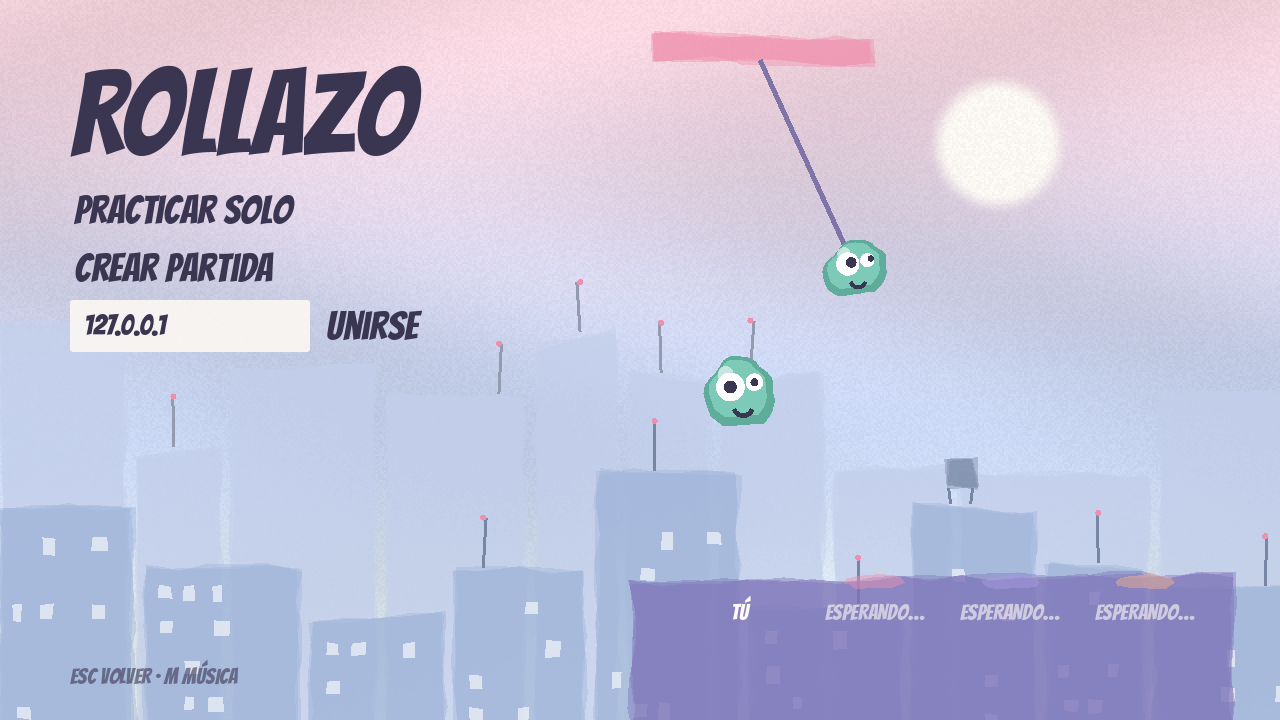
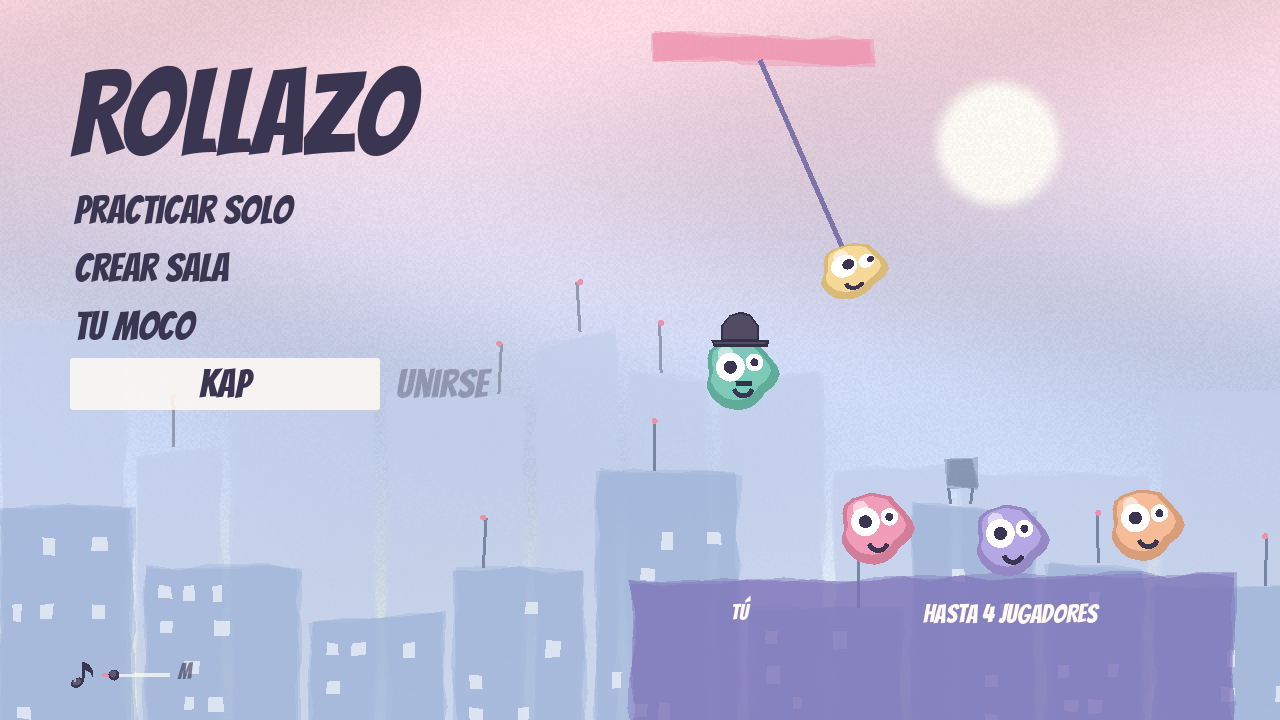
Guía online: salas con código en vez de Tailscale

diff --git a/docs/jugar-online.md b/docs/jugar-online.md
@@ -4,23 +4,19 @@ Rollazo es una carrera de hasta **4 mocos** que se columpian con papel higiénic
 tejados de una ciudad. Puedes cortar el papel de los demás, agarrarte a ellos y chocar.
 Cada ronda es un mapa nuevo y gana quien sume más puntos.
 
-Para jugar online, un PC hace de **anfitrión** (el que crea la partida) y los demás se
-**unen** a él. Como no estamos en la misma casa, usamos **Tailscale**: crea una red privada
-entre nuestros PCs por internet. Es gratis y no hace falta tocar el router.
+Para jugar online, uno **crea una sala** y le sale un **código de 4 letras**. Los demás
+escriben ese código y entran. No hace falta instalar nada más ni saber ninguna IP.
 
 ---
 
 ## 1. Preparación (solo la primera vez, cada uno)
 
-1. **Tailscale.** Descárgalo en https://tailscale.com/download, instálalo y entra con tu cuenta
-   de Google, Microsoft o GitHub.
-2. **Estar en la misma red.** El anfitrión entra en https://login.tailscale.com/admin/users,
-   pulsa **Invite users** y manda el enlace a cada amigo. Cada amigo lo abre y acepta.
-3. **El juego.** Copia `Rollazo.exe` en tu PC (te lo pasa el anfitrión por Drive, WeTransfer…).
-   No se instala: se abre con doble clic.
-   - Si Windows avisa de que es una app desconocida: **Más información → Ejecutar de todas formas**.
-4. **Firewall (solo el anfitrión).** La primera vez que pulse **Crear partida**, Windows
-   pregunta si permite el acceso: marca **Redes privadas** y pulsa **Permitir**.
+1. **Descarga el zip** de la última versión en https://github.com/olwpad/Rollazo/releases
+   (o te lo pasa un amigo).
+2. **Descomprímelo** en una carpeta. Dentro hay `Rollazo.exe` y un `.dll`: tienen que estar
+   **juntos** en la misma carpeta, si no el online no funciona.
+3. Ábrelo con doble clic. Si Windows avisa de que es una app desconocida:
+   **Más información → Ejecutar de todas formas**.
 
 ---
 
@@ -31,50 +27,34 @@ entre nuestros PCs por internet. Es gratis y no hace falta tocar el router.
 | Elemento | Para qué sirve |
 |---|---|
 | **Practicar solo** | Juegas tú solo en un mapa aleatorio, para aprender. **R** repite el mismo mapa. |
-| **Crear partida** | Te conviertes en el **anfitrión**: los demás se unen a ti. |
-| **Casilla de IP** (pone `127.0.0.1`) | Aquí escribe el amigo la IP del anfitrión. Haz clic en ella, borra lo que hay y pega la IP. |
-| **Unirse** | Te conecta a la IP que hay en la casilla. |
-| **Azotea de la derecha** | Los 4 huecos de la partida. Cuando alguien entra, su moco cae de un salto con su color. |
-| **Abajo** | Cuántos mocos hay (por ejemplo `2/4 MOCOS`) y los atajos de teclado. |
-
-> `127.0.0.1` significa "este mismo PC". Solo sirve para probar con dos ventanas en tu
-> ordenador. Para jugar con amigos hay que poner la IP de Tailscale del anfitrión.
+| **Crear sala** | Te conviertes en el **anfitrión** y te sale el código de la sala. |
+| **Tu moco** | Cambias tu ropa, tu color y tu nombre. |
+| **Casilla del código** | Aquí escribe el amigo las 4 letras de la sala. Recuerda el último código. |
+| **Unirse** | Se enciende al escribir las 4 letras. Te mete en esa sala. |
 
 ---
 
 ## 3. Si eres el anfitrión
 
-1. **Abre Tailscale** (icono junto al reloj de Windows, abajo a la derecha) y comprueba que
-   está conectado.
-2. **Copia tu IP.** En el menú de Tailscale, tu PC aparece con una IP que empieza por `100.`
-   (por ejemplo `100.101.7.42`). Haz clic en ella y se copia.
-3. **Pásala** por el grupo de WhatsApp o Discord.
-4. **Abre Rollazo y pulsa Crear partida.** Verás esto:
+1. Pulsa **Crear sala**. En un momento sale arriba el **código de la sala** (por ejemplo `MWUH`):
 
    ![Sala del anfitrión](img/2-anfitrion.png)
 
-   - Tu moco aparece en la azotea con **TÚ** debajo.
-   - Cada amigo que se une cae en un hueco libre (**JUGADOR 2**, **JUGADOR 3**…).
-   - Las opciones de practicar, crear y unirse desaparecen mientras la partida está abierta.
-5. **Cuando estéis todos, pulsa ¡EMPEZAR CARRERA!** Solo lo ve el anfitrión.
+2. Pulsa **COPIAR** y pásalo por el grupo de WhatsApp o Discord.
+3. Cada amigo que entra aparece en un cartel de la azotea.
+4. **Cuando estéis todos, pulsa ¡A CORRER!** Solo lo ve el anfitrión.
 
 > Cuando la carrera ya ha empezado no entra nadie más. Si alguien llega tarde, salid al menú
-> (**Esc**), crea otra partida y que se unan todos otra vez.
+> (**Esc**), crea otra sala y que entren todos con el código nuevo.
 
 ---
 
 ## 4. Si eres un amigo
 
-1. Comprueba que **Tailscale está conectado**: el icono no debe estar tachado.
-2. Abre Rollazo.
-3. **Haz clic en la casilla de IP**, borra `127.0.0.1` y **pega la IP del anfitrión**
-   (la que empieza por `100.`).
-4. Pulsa **Unirse**. Al conectar verás tu moco en la azotea con **TÚ** y el mensaje
-   *"Conectado. Esperando a que el anfitrión empiece…"*:
-
-   ![Sala de un amigo](img/3-amigo.png)
-
-5. Espera a que el anfitrión pulse **¡Empezar carrera!**
+1. Abre Rollazo.
+2. Escribe en la casilla las **4 letras** que te ha pasado el anfitrión.
+3. Pulsa **Unirse**. Al conectar aparece tu moco en la azotea.
+4. Espera a que el anfitrión pulse **¡A CORRER!**
 
 ---
 
@@ -132,14 +112,15 @@ entre nuestros PCs por internet. Es gratis y no hace falta tocar el router.
 
 | Qué pasa | Qué hacer |
 |---|---|
-| **"No se pudo conectar"** | Comprobad que los dos tenéis Tailscale encendido y que la IP es la `100.x` del anfitrión, no la de vuestro wifi. Podéis probar `ping 100.x.y.z` en una terminal. |
-| **"No se pudo conectar" con todo bien** | Puede que ya haya 4 jugadores, o que la carrera haya empezado. Esperad a la siguiente partida. |
-| **"El anfitrión se ha ido"** | El anfitrión cerró el juego o salió al menú. Que cree otra partida y os unís otra vez. |
-| **"No se pudo crear (¿puerto ocupado?)"** | Ya hay otro Rollazo abierto haciendo de anfitrión en ese PC. Cierra las otras ventanas. |
-| **El firewall bloqueó el juego** | En Windows, busca *"Permitir una aplicación a través del Firewall"* y marca Rollazo en **Privada**. |
+| **"ESA SALA NO EXISTE"** | Revisa las 4 letras. Si el anfitrión salió al menú, la sala se cierra: que cree otra. |
+| **"LA SALA ESTÁ LLENA"** | Ya hay 4 jugadores. |
+| **"NO HAY CONEXIÓN CON EL SERVIDOR"** | Revisa tu internet. Si a todos os pasa, el servidor de salas está caído: probad más tarde. |
+| **"NO SE PUDO CONECTAR CON EL ANFITRIÓN"** | Vuestros routers no se dejan hablar directamente (pasa en algunas redes de móvil o de empresa). Probad con el wifi de casa y contádmelo. |
+| **"El anfitrión se ha ido"** | El anfitrión cerró el juego o salió al menú. Que cree otra sala y entráis otra vez. |
+| **El online no hace nada** | Comprueba que el `.dll` está en la misma carpeta que `Rollazo.exe`. |
 | **El columpio va con retraso** | Normal si la conexión es mala. Apuntadlo y contádmelo: se puede mejorar. |
 
 ### Probar en un solo PC (sin amigos)
 
-Abre **dos** `Rollazo.exe`. En uno pulsa **Crear partida** y en el otro deja `127.0.0.1` y pulsa
+Abre **dos** `Rollazo.exe`. En uno pulsa **Crear sala** y en el otro escribe el código y pulsa
 **Unirse**. Manejas un moco en cada ventana.
